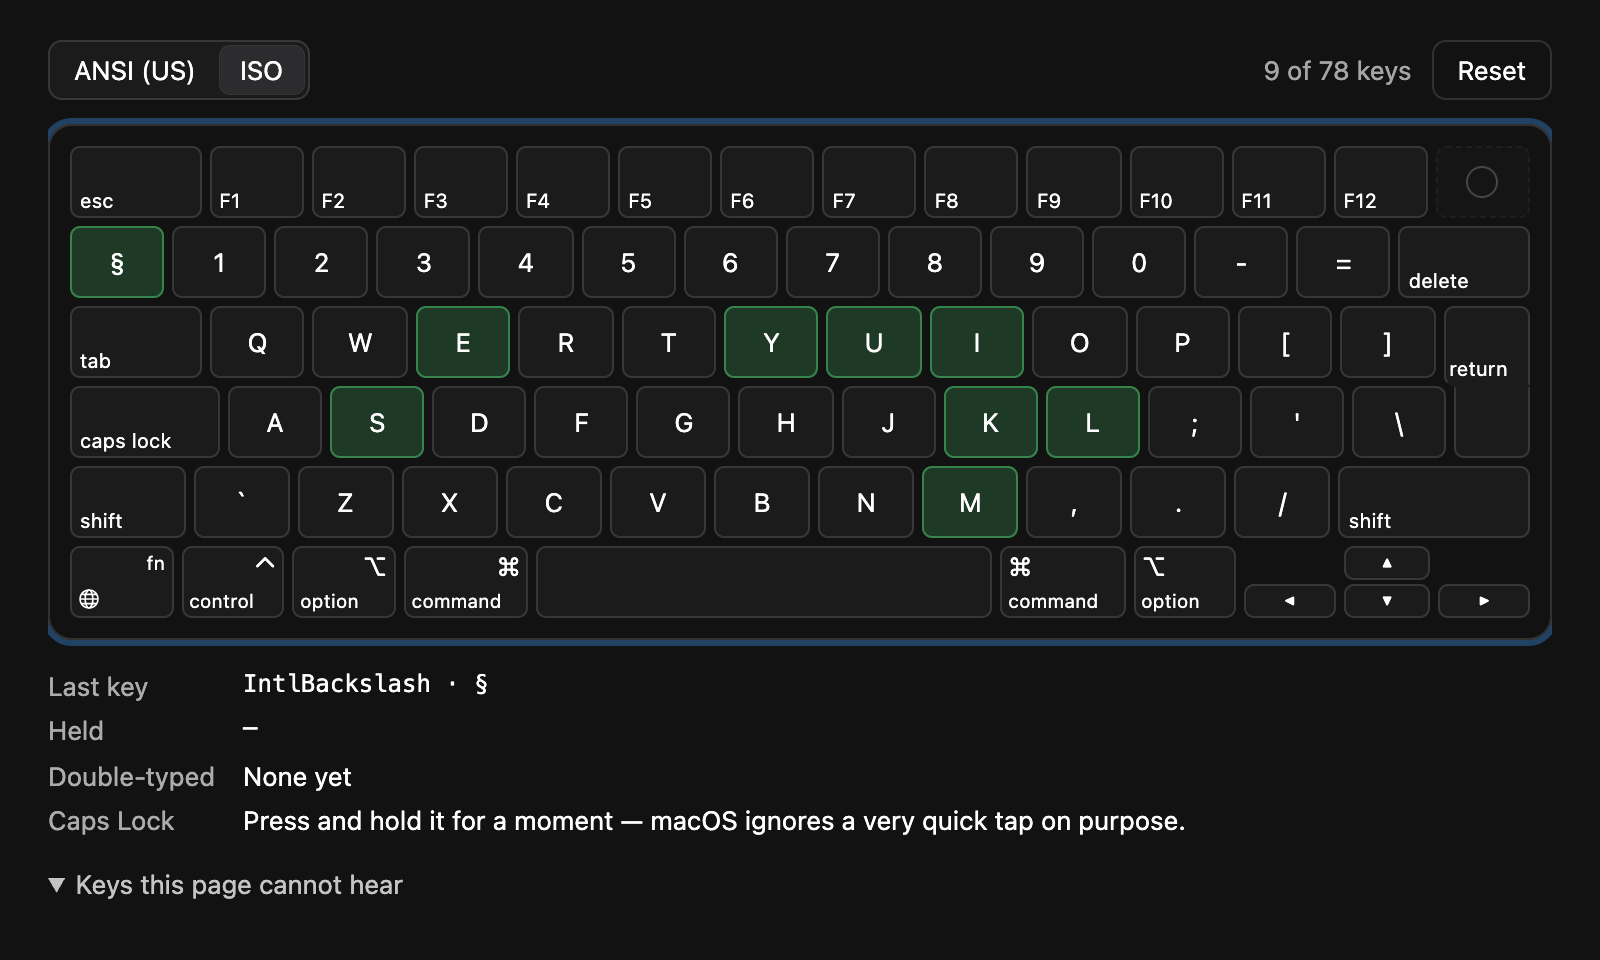
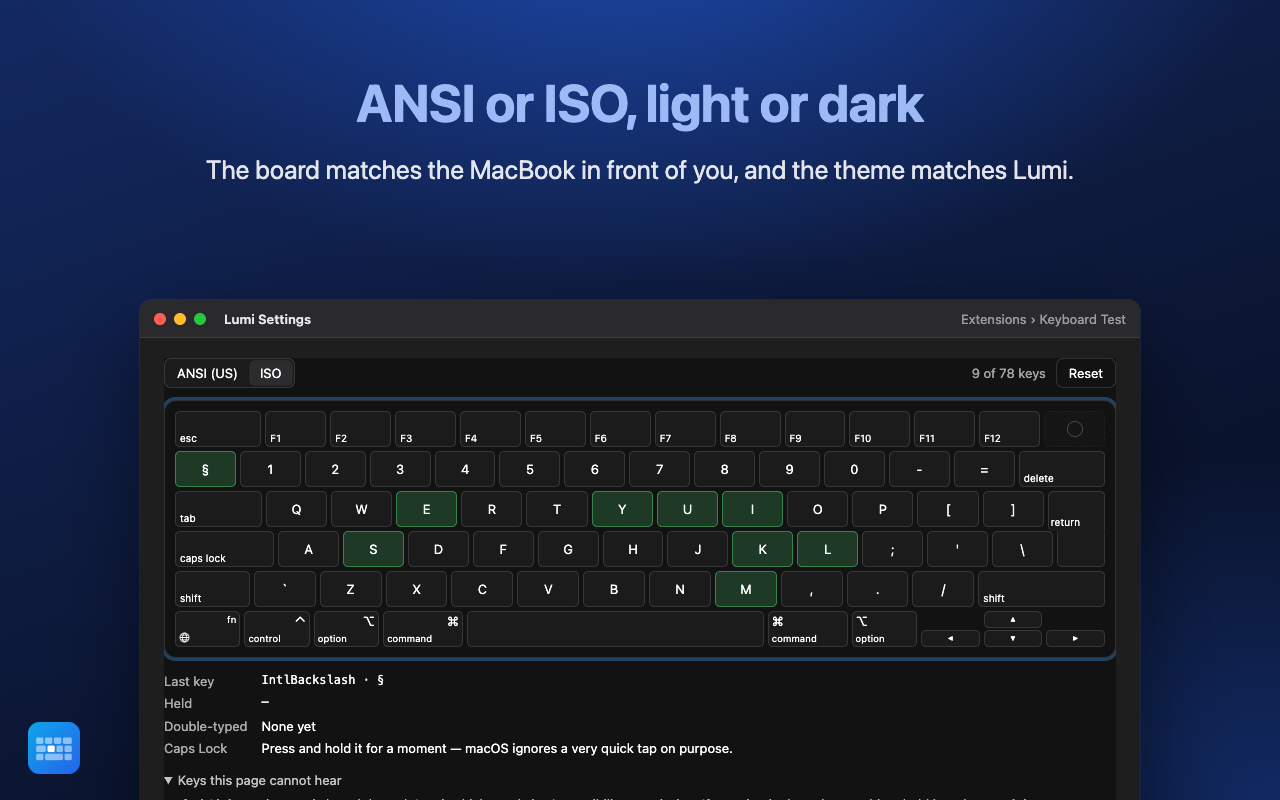
feat(store): make extension screenshots as promo pictures
A store picture is now a promo page at 1280x800: a headline over the
extension's own colour, its page in a Lumi window, and a callout on the
one thing the picture is about. preview_ui.py draws it from
scripts/preview/promo/<id>.json at /__promo__/, and screenshot.mjs
takes it after the shot's scene has run.

Key Test's two pictures are remade this way; Sample's are replaced by
two (its About page, and its Settings page translating Good morning).

diff --git a/scripts/preview/shots/dev.thiennguyen.sample-2.js b/scripts/preview/shots/dev.thiennguyen.sample-2.js
@@ -1,0 +1,9 @@
+(async () => {
+  const doc = document.querySelector("iframe").contentDocument;
+  const sleep = (ms) => new Promise((r) => setTimeout(r, ms));
+  const text = doc.querySelector("textarea");
+  text.value = "Good morning";
+  text.dispatchEvent(new Event("input", { bubbles: true }));
+  await sleep(300);
+  return "ok";
+})()

diff --git a/scripts/preview_ui.py b/scripts/preview_ui.py
@@ -16,6 +16,10 @@ photographed for the store's `screenshots` without a Lumi build:
                             a page Lumi draws inside a pane (About, Settings,
                             a [[page]] tab), framed with the pane's inset and
                             window colour — those pages leave both to Lumi
+  GET  /__promo__/?shot=1   a store picture: shot 1 of scripts/preview/promo/
+                            <id>.json — a headline over the extension's
+                            colour, the page in a Lumi window, a callout —
+                            for scripts/screenshot.mjs to take at 1280×800
 
 Everything else is a file under the crate's ui/. Bound to 127.0.0.1: it is a
 preview, never something to reach from another machine.
@@ -51,7 +55,117 @@ FRAME = """<!doctype html>
 """
 
 
-def handler_for(ui_dir: Path, lumi_css: bytes, settings: dict, calls: dict):
+# A store picture, the way stores draw them: the extension's own colour
+# (`color`, the icon's), a headline and one line under it, the page in a
+# Lumi window running off the bottom edge, and a callout card over the
+# window's corner pointing at the one thing the picture is about. The page
+# is the iframe — the one scene scripts reach into.
+PROMO = """<!doctype html>
+<html><head><meta charset="utf-8"><title>{headline}</title>
+<style>
+  * {{ box-sizing: border-box; }}
+  html, body {{ margin: 0; width: 1280px; height: 800px; overflow: hidden; }}
+  body {{
+    font-family: -apple-system, BlinkMacSystemFont, "SF Pro Display", system-ui, sans-serif;
+    color: #fff;
+    background:
+      radial-gradient(900px 520px at 50% -10%, color-mix(in srgb, {color} 55%, transparent), transparent 70%),
+      radial-gradient(700px 500px at 100% 100%, color-mix(in srgb, {color} 35%, transparent), transparent 70%),
+      linear-gradient(160deg, color-mix(in srgb, {color} 30%, #0b1026), #070b1a);
+    position: relative;
+  }}
+  h1 {{
+    margin: 0; padding-top: 72px; text-align: center;
+    font-size: 52px; font-weight: 700; letter-spacing: -0.01em;
+    color: color-mix(in srgb, {color} 45%, #fff);
+  }}
+  p.sub {{
+    margin: 18px auto 0; max-width: 980px; text-align: center;
+    font-size: 26px; line-height: 1.45; color: rgba(255, 255, 255, 0.88);
+  }}
+  .window {{
+    position: absolute; left: 140px; top: 300px; width: 1000px; height: 560px;
+    border-radius: 12px; overflow: hidden;
+    background: {canvas};
+    box-shadow: 0 30px 80px rgba(0, 0, 0, 0.45), 0 0 0 1px rgba(255, 255, 255, 0.08);
+  }}
+  .bar {{
+    height: 38px; display: flex; align-items: center; gap: 8px; padding: 0 14px;
+    background: {bar}; border-bottom: 1px solid rgba(128, 128, 128, 0.22);
+    color: {ink}; font-size: 13px; font-weight: 600;
+  }}
+  .dot {{ width: 12px; height: 12px; border-radius: 50%; }}
+  .bar .title {{ margin-left: 10px; }}
+  .bar .tab {{ margin-left: auto; font-weight: 400; opacity: 0.6; }}
+  iframe {{ border: 0; width: 100%; height: calc(100% - 38px); display: block; padding: {inset}; }}
+  .callout {{
+    position: absolute; right: 60px; bottom: 44px; width: 440px;
+    border-radius: 16px; padding: 18px 20px;
+    background: #fff; color: #1d1d1f;
+    box-shadow: 0 24px 60px rgba(0, 0, 0, 0.4), 0 0 0 1px rgba(0, 0, 0, 0.06);
+  }}
+  .callout .head {{ display: flex; align-items: center; gap: 10px; font-size: 20px; font-weight: 600; }}
+  .callout .head img {{ width: 32px; height: 32px; }}
+  .callout .label {{ margin-top: 12px; font-size: 16px; font-weight: 600; color: #8a8a8e; }}
+  .callout .body {{ margin-top: 6px; font-size: 21px; line-height: 1.4; }}
+  .callout .body b {{ color: {color}; }}
+  .mark {{ position: absolute; left: 28px; bottom: 26px; width: 52px; height: 52px; }}
+</style></head>
+<body>
+  <h1>{headline}</h1>
+  <p class="sub">{sub}</p>
+  <div class="window">
+    <div class="bar">
+      <span class="dot" style="background:#ff5f57"></span>
+      <span class="dot" style="background:#febc2e"></span>
+      <span class="dot" style="background:#28c840"></span>
+      <span class="title">{name}</span>
+      <span class="tab">{window_title}</span>
+    </div>
+    <iframe src="/{page}?theme={theme}"></iframe>
+  </div>
+  {callout}
+  <img class="mark" src="/__icon__" alt="">
+</body></html>
+"""
+
+CALLOUT = """<div class="callout">
+    <div class="head"><img src="/__icon__" alt="">{title}</div>
+    <div class="label">{label}</div>
+    <div class="body">{body}</div>
+  </div>"""
+
+
+def promo_page(spec: dict, n: int, name: str) -> str:
+    """Shot `n` (from 1) of a promo spec, as the page to photograph. The
+    spec is the store maintainer's own file; its strings are written in as
+    they are, markup included, so a callout can bold the word it is about."""
+    shot = spec["shots"][n - 1]
+    dark = shot.get("theme") == "dark"
+    callout = shot.get("callout")
+    return PROMO.format(
+        headline=shot["headline"],
+        sub=shot.get("sub", ""),
+        color=spec.get("color", "#378add"),
+        canvas="#1e1e1e" if dark else "#ffffff",
+        bar="#2a2a2c" if dark else "#f4f4f5",
+        ink="#e8e8e8" if dark else "#1d1d1f",
+        name=shot.get("window", name),
+        window_title=shot.get("tab", ""),
+        page=shot["page"],
+        theme="dark" if dark else "light",
+        inset=shot.get("inset", "20px 24px"),
+        callout=CALLOUT.format(
+            title=callout.get("title", name),
+            label=callout.get("label", ""),
+            body=callout.get("body", ""),
+        )
+        if callout
+        else "",
+    )
+
+
+def handler_for(ui_dir: Path, lumi_css: bytes, settings: dict, calls: dict, promo: dict, name: str, icon: bytes):
     class Bridge(http.server.SimpleHTTPRequestHandler):
         def _json(self, body, status=200):
             data = json.dumps(body).encode()
@@ -80,6 +194,29 @@ def handler_for(ui_dir: Path, lumi_css: bytes, settings: dict, calls: dict):
                 self._json(settings)
             elif path == "/__lumi__/shortcuts":
                 self._json({"on": True, "commands": [], "ess": []})
+            elif path == "/__icon__":
+                self.send_response(200)
+                self.send_header("Content-Type", "image/svg+xml")
+                self.send_header("Content-Length", str(len(icon)))
+                self.end_headers()
+                self.wfile.write(icon)
+            elif path == "/__promo__/":
+                query = dict(
+                    pair.split("=", 1)
+                    for pair in (self.path.split("?", 1) + [""])[1].split("&")
+                    if "=" in pair
+                )
+                shots = promo.get("shots", [])
+                n = int(query.get("shot", "1")) if query.get("shot", "1").isdigit() else 0
+                if not 1 <= n <= len(shots):
+                    self.send_error(404)
+                    return
+                data = promo_page(promo, n, name).encode()
+                self.send_response(200)
+                self.send_header("Content-Type", "text/html; charset=utf-8")
+                self.send_header("Content-Length", str(len(data)))
+                self.end_headers()
+                self.wfile.write(data)
             elif path == "/__preview__/":
                 query = dict(
                     pair.split("=", 1)
@@ -155,12 +292,17 @@ def main():
     extension_id = manifest.get("extension", {}).get("id", "")
     calls_path = ROOT / "scripts" / "preview" / f"{extension_id}.json"
     calls = json.loads(calls_path.read_text()) if calls_path.is_file() else {}
+    promo_path = ROOT / "scripts" / "preview" / "promo" / f"{extension_id}.json"
+    promo = json.loads(promo_path.read_text()) if promo_path.is_file() else {}
+    icon_path = crate / "icon.svg"
+    icon = icon_path.read_bytes() if icon_path.is_file() else b""
+    name = manifest.get("extension", {}).get("name", extension_id)
     lumi_css = args.lumi_css.read_bytes() if args.lumi_css.is_file() else b""
     if not lumi_css:
         print(f"note: no lumi.css at {args.lumi_css}; pages draw without Lumi's look")
 
     server = http.server.ThreadingHTTPServer(
-        ("127.0.0.1", args.port), handler_for(crate / "ui", lumi_css, settings, calls)
+        ("127.0.0.1", args.port), handler_for(crate / "ui", lumi_css, settings, calls, promo, name, icon)
     )
     print(f"serving {crate / 'ui'} at http://127.0.0.1:{args.port}/")
     server.serve_forever()

diff --git a/README.md b/README.md
@@ -55,8 +55,11 @@ after review.
    screenshots = ["shots/panel.png", "shots/settings.png"]
    ```
 
-   At most 4, each a PNG or JPEG of at most 1 MB. Lumi's installer
-   ignores the key; the store publishes the files beside your package.
+   At most 4, each a PNG or JPEG of at most 1 MB, made at 16:10 (1280×800)
+   so Lumi's frames show them whole. Lumi's installer ignores the key; the
+   store publishes the files beside your package. The first-party
+   extensions' pictures are made with `scripts/preview_ui.py` (its
+   `/__promo__/` page) and `scripts/screenshot.mjs` — see the top of each.
 
 3. Review is human, of source: the manifest's capabilities against what
    the code actually calls, nothing phoning home, no misbehaviour shipped
